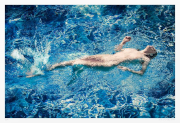
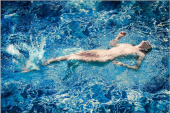
Dev (#6)
* button fix

* changes 3

diff --git a/src/pages/Index.vue b/src/pages/Index.vue
@@ -1,7 +1,7 @@
 <template>
   <Layout>
     <v-img
-      :height="0.92 * windowHeight"
+      :height="0.85 * windowHeight"
       :src="image.img ?
         require('~/assets/images/' + image.img) :
         require('~/assets/images/' + images[imageId].img)"
@@ -12,13 +12,31 @@
       <v-container fluid fill-height>
         <v-row align="center" justify="center">
           <v-col cols="6">
-            <p class="display-2 text-center no-cursor">{{ title[getLang] }}</p>
-            <p class="headline text-center no-cursor">{{ subtitle[getLang] }}</p>
+            <p class="display-2 white--text text-center no-cursor">{{ title[getLang] }}</p>
+            <p class="headline white--text text-center no-cursor" v-html="subtitle[getLang]"></p>
+            
+          </v-col>
+        </v-row>
+        <v-row align="center" justify="center">
+          <v-col cols="6">
+          <p class="headline white--text text-center">{{ newletter[getLang] }}</p>
+              <v-text-field
+                id="email-field"
+                background-color="white"
+                outlined
+                single-line
+                placeholder="Email"
+                color="black"
+              >
+                <template v-slot:append-outer>
+                  <v-btn class="white--text subtitle-2 mx-2" x-large color="green" v-html="email[getLang]"/>
+                </template>
+              </v-text-field>
           </v-col>
         </v-row>
       </v-container>
     </v-img>
-    <v-card class="pt-8" flat color="grey lighten-2">
+    <!-- <v-card class="pt-8" flat color="grey lighten-2">
       <div class="d-flex justify-center align-end">
         <v-img
           class="flex-grow-0"
@@ -29,24 +47,22 @@
         <p class="pl-1 black--text text-center">{{ newletter[getLang] }}</p>
       </div>
       <v-row class="pt-2" align="center" justify="center">
-        <v-col cols=4>
+        <v-col cols=5>
           <v-text-field
             id="email-field"
-            label="Email"
             background-color="white"
             outlined
-            :placeholder="email[getLang]"
+            single-line
+            placeholder="Email"
             color="black"
           >
             <template v-slot:append-outer>
-                <v-btn class="mx-2" x-large color="green lighten-3" text icon>
-                  <v-icon x-large color="green" right>mdi-send</v-icon>
-                </v-btn>
+              <v-btn class="white--text subtitle-2 mx-2" x-large color="green" v-html="email[getLang]"/>
             </template>
           </v-text-field>
         </v-col>
       </v-row>
-    </v-card>
+    </v-card> -->
   </Layout>
 </template>
 
@@ -71,21 +87,21 @@ export default {
         "ARTVENTURES IS COMING...",
       ],
       subtitle: [
-        "Βάλε Τέχνη στη ζωή σου. Στο χώρο σου. Κι άλλαξε την όποτε θες. Εύκολα. Γρήγορα. Οικονομικά... Τώρα.",
-        "Put Art in your Life. In your space. And change it whenever you want. Easy. Quickly. Affordably... Now.",
+        "Βάλε Τέχνη στη ζωή σου. Στο χώρο σου.<br> Κι άλλαξε την όποτε θες.<br> Εύκολα. Γρήγορα. Οικονομικά... Τώρα.",
+        "Put Art in your Life. In your space.<br> And change it whenever you want.<br> Easy. Quickly. Affordably... Now.",
       ],
       newletter: [
         "ΜΑΘΕ ΠΡΩΤΟΣ",
         "BE THE FIRST TO KNOW",
       ],
       email: [
-        "Ζήσε την πρώτη σου Artventure",
-        "Live your first Artventure",
+        '<span class="text-capitalize">Ζήσε</span>&nbsp;<span class="text-lowercase">την πρώτη σου</span>&nbsp;<span class="text-capitalize">Artventure</span>',
+        '<span class="text-capitalize">Live</span>&nbsp;<span class="text-lowercase">your first</span>&nbsp;<span class="text-capitalize">Artventure</span>',
       ],
       images: [
         { img: "img03.png", lazy: "lazy-img03.png" },
         { img: "img01.png", lazy: "lazy-img01.png" },
-        { img: "img04.png", lazy: "lazy-img04.png" },
+        { img: "img02.png", lazy: "lazy-img02.png" },
       ],
       imageId: 0,
       image: { img: null, lazy: null },

diff --git a/src/layouts/Default.vue b/src/layouts/Default.vue
@@ -32,7 +32,7 @@
           </template>
           <v-list>
             <v-list-item v-for="(flag, i) in flags" :key="i" @click="setLang(i)">
-              <v-list-item-title class="subtitle-1">{{ flag }}</v-list-item-title>
+              <v-list-item-title class="text-center subtitle-1">{{ flag }}</v-list-item-title>
             </v-list-item>
           </v-list>
         </v-menu>
@@ -62,7 +62,7 @@
           </template>
           <v-list>
             <v-list-item v-for="(flag, i) in flags" :key="i" @click="setLang(i)">
-              <v-list-item-title class="subtitle-1">{{ flag }}</v-list-item-title>
+              <v-list-item-title class="text-center subtitle-1">{{ flag }}</v-list-item-title>
             </v-list-item>
           </v-list>
         </v-menu>
